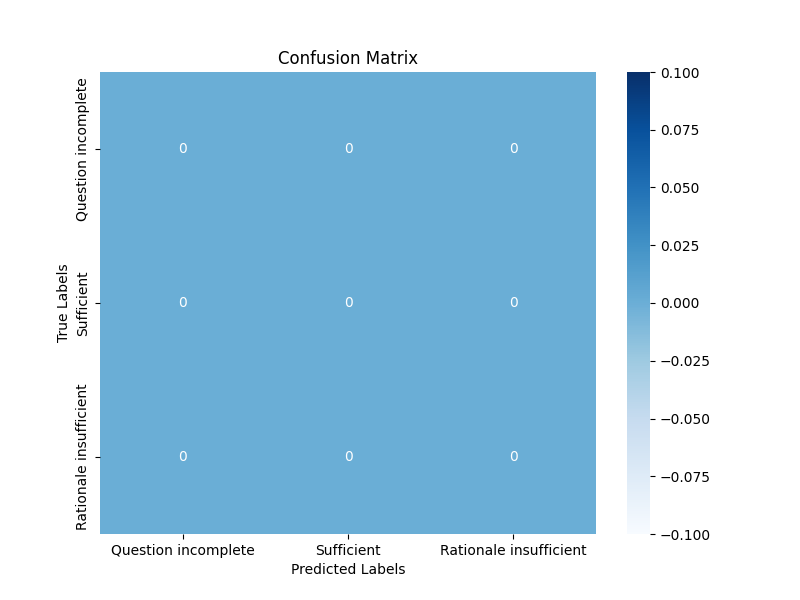
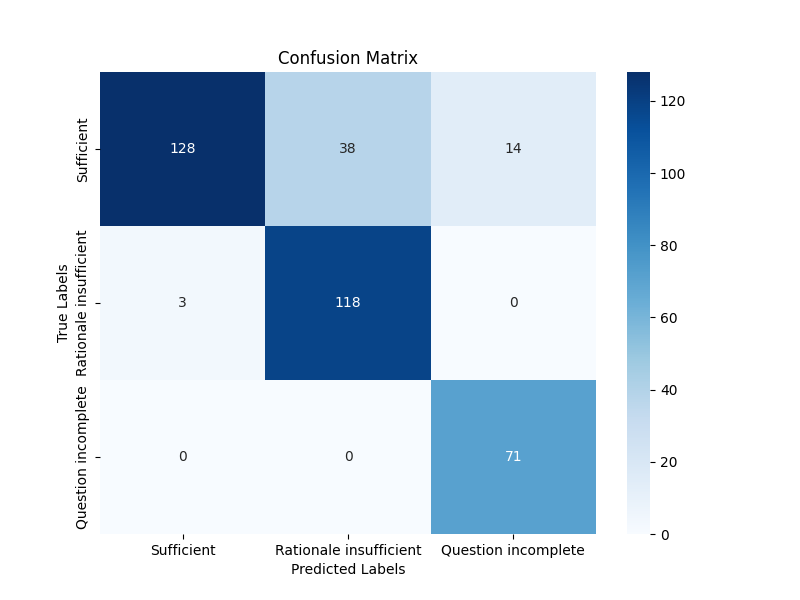
using sequence classification t5 model

diff --git a/scripts/evaluation.py b/scripts/evaluation.py
@@ -1,27 +1,22 @@
 from sklearn.metrics import accuracy_score, classification_report, confusion_matrix
 from tqdm import tqdm
-from torch.utils.data import DataLoader
 import matplotlib.pyplot as plt
 import seaborn as sns
-
 import pandas as pd
-from datasets import Dataset
-from transformers import T5Tokenizer, T5ForConditionalGeneration, DataCollatorForSeq2Seq
-from sklearn.metrics import accuracy_score, classification_report
 import torch
 from torch.utils.data import DataLoader
-from tqdm import tqdm
+from datasets import Dataset
+from transformers import T5Tokenizer, T5ForSequenceClassification, DataCollatorWithPadding
 
 MODEL_NAME = "trained_model"
 
-label_set = {"Sufficient", "Rationale insufficient", "Question incomplete"}
+LABEL2ID = {
+    "Sufficient": 0,
+    "Rationale insufficient": 1,
+    "Question incomplete": 2,
+}
+ID2LABEL = {v: k for k, v in LABEL2ID.items()}
 
-def clean_prediction(pred):
-    pred = pred.strip().lower()
-    for label in label_set:
-        if pred == label.lower():
-            return label
-    return "Sufficient"
 
 def load_and_prepare_data():
     full_df = pd.read_csv("data/processed.csv")
@@ -34,7 +29,6 @@ def load_and_prepare_data():
         " candidate answer: " + full_df["candidate"]
     )
     full_df["target"] = full_df["label"]
-
     only_q_df["input"] = "question: " + only_q_df["question"]
     only_q_df["target"] = only_q_df["label"]
 
@@ -48,22 +42,23 @@ def load_and_prepare_data():
     balanced_df = pd.concat([minority_df, downsampled_sufficient])
     return balanced_df.reset_index(drop=True)
 
+
 def preprocess(batch, tokenizer):
-    model_inputs = tokenizer(batch["input"], truncation=True, padding="max_length", max_length=512)
-    labels = tokenizer(batch["target"], truncation=True, padding="max_length", max_length=64)
-    model_inputs["labels"] = labels["input_ids"]
-    return model_inputs
+    tokenized = tokenizer(batch["input"], truncation=True, padding="max_length", max_length=512)
+    tokenized["labels"] = [LABEL2ID[label] for label in batch["target"]]
+    return tokenized
+
 
 def evaluate():
     df = load_and_prepare_data()
     dataset = Dataset.from_pandas(df).train_test_split(test_size=0.2)
 
     tokenizer = T5Tokenizer.from_pretrained(MODEL_NAME)
-    model = T5ForConditionalGeneration.from_pretrained(MODEL_NAME)
+    model = T5ForSequenceClassification.from_pretrained(MODEL_NAME)
 
     tokenized = dataset.map(lambda x: preprocess(x, tokenizer), batched=True, remove_columns=dataset["train"].column_names)
 
-    data_collator = DataCollatorForSeq2Seq(tokenizer=tokenizer, model=model)
+    data_collator = DataCollatorWithPadding(tokenizer=tokenizer)
     eval_loader = DataLoader(tokenized["test"], batch_size=4, collate_fn=data_collator)
 
     device = torch.device("cuda" if torch.cuda.is_available() else "cpu")
@@ -82,42 +77,38 @@ def evaluate():
 
             outputs = model(input_ids=input_ids, attention_mask=attention_mask, labels=labels)
             loss = outputs.loss
+            logits = outputs.logits
+            preds = torch.argmax(logits, dim=-1)
+
             total_eval_loss += loss.item()
-
-            generated_ids = model.generate(input_ids=input_ids, attention_mask=attention_mask, max_length=16)
-
-            preds = tokenizer.batch_decode(generated_ids, skip_special_tokens=True)
-            targets = tokenizer.batch_decode(labels, skip_special_tokens=True)
-
-            cleaned_preds = [p for p in preds]
-            cleaned_labels = [t for t in targets]
-
-            all_preds.extend(cleaned_preds)
-            all_labels.extend(cleaned_labels)
+            all_preds.extend(preds.cpu().tolist())
+            all_labels.extend(labels.cpu().tolist())
 
     avg_eval_loss = total_eval_loss / len(eval_loader)
     accuracy = accuracy_score(all_labels, all_preds)
 
     print(f"Evaluation Loss: {avg_eval_loss:.4f}")
-    print(f"Exact Match Accuracy: {accuracy:.4f}")
-    print(classification_report(all_labels, all_preds, digits=3))
+    print(f"Accuracy: {accuracy:.4f}")
+    print("\nClassification Report:\n")
+    print(classification_report(all_labels, all_preds, target_names=[ID2LABEL[i] for i in range(3)], digits=3))
 
-    # Generate confusion matrix
-    cm = confusion_matrix(all_labels, all_preds, labels=list(label_set))
-
+    # Confusion matrix
+    cm = confusion_matrix(all_labels, all_preds)
     plt.figure(figsize=(8, 6))
     sns.heatmap(cm, annot=True, fmt='d', cmap='Blues',
-                xticklabels=list(label_set),
-                yticklabels=list(label_set))
+                xticklabels=[ID2LABEL[i] for i in range(3)],
+                yticklabels=[ID2LABEL[i] for i in range(3)])
     plt.xlabel('Predicted Labels')
     plt.ylabel('True Labels')
     plt.title(f'Confusion Matrix')
-    plt.savefig("confusion_matrix.png")  # 👈 save the plot
+    plt.savefig("confusion_matrix.png")
 
+    # Show a few predictions
     for i in range(10):
         print(f"\n🔍 Example {i+1}")
-        print(f"Prediction: {all_preds[i]}")
-        print(f"Target    : {all_labels[i]}")
+        print(f"Prediction: {ID2LABEL[all_preds[i]]}")
+        print(f"Target    : {ID2LABEL[all_labels[i]]}")
+
 
 if __name__ == "__main__":
     evaluate()

diff --git a/scripts/train.py b/scripts/train.py
@@ -1,6 +1,6 @@
 import pandas as pd
 from datasets import Dataset
-from transformers import T5Tokenizer, T5ForConditionalGeneration, DataCollatorForSeq2Seq
+from transformers import T5Tokenizer, T5ForConditionalGeneration, DataCollatorForSeq2Seq, T5ForSequenceClassification, DataCollatorWithPadding
 import torch
 from torch.utils.data import DataLoader
 from torch.optim import AdamW
@@ -51,22 +51,37 @@ def load_and_prepare_data():
     ])
     return balanced_df.reset_index(drop=True)
 
+LABEL2ID = {
+    "Sufficient": 0,
+    "Rationale insufficient": 1,
+    "Question incomplete": 2,
+}
+ID2LABEL = {v: k for k, v in LABEL2ID.items()}
+
 def preprocess(batch, tokenizer):
-    model_inputs = tokenizer(batch["input"], truncation=True, padding="max_length", max_length=512)
-    labels = tokenizer(batch["target"], truncation=True, padding="max_length", max_length=64)
-    model_inputs["labels"] = labels["input_ids"]
-    return model_inputs
+    tokenized = tokenizer(batch["input"], truncation=True, padding="max_length", max_length=512)
+    tokenized["labels"] = [LABEL2ID[label] for label in batch["target"]]
+    return tokenized
+
+
 
 def train():
     df = load_and_prepare_data()
     dataset = Dataset.from_pandas(df).train_test_split(test_size=0.2)
 
     tokenizer = T5Tokenizer.from_pretrained(MODEL_NAME)
-    model = T5ForConditionalGeneration.from_pretrained(MODEL_NAME)
+    
+    model = T5ForSequenceClassification.from_pretrained(
+        MODEL_NAME,
+        num_labels=3,
+        id2label={0: "Sufficient", 1: "Rationale insufficient", 2: "Question incomplete"},
+        label2id={"Sufficient": 0, "Rationale insufficient": 1, "Question incomplete": 2},
+        problem_type="single_label_classification"
+    )
 
     tokenized = dataset.map(lambda x: preprocess(x, tokenizer), batched=True, remove_columns=dataset["train"].column_names)
 
-    data_collator = DataCollatorForSeq2Seq(tokenizer=tokenizer, model=model)
+    data_collator = DataCollatorWithPadding(tokenizer=tokenizer)
     train_loader = DataLoader(tokenized["train"], batch_size=4, shuffle=True, collate_fn=data_collator)
 
     device = torch.device("cuda" if torch.cuda.is_available() else "cpu")
@@ -96,6 +111,10 @@ def train():
 
         avg_train_loss = total_train_loss / len(train_loader)
         print(f"Epoch {epoch+1} Training Loss: {avg_train_loss:.4f}")
+
+    model.save_pretrained("trained_model")
+    tokenizer.save_pretrained("trained_model")
+
 
     model.save_pretrained("trained_model")
     tokenizer.save_pretrained("trained_model")
